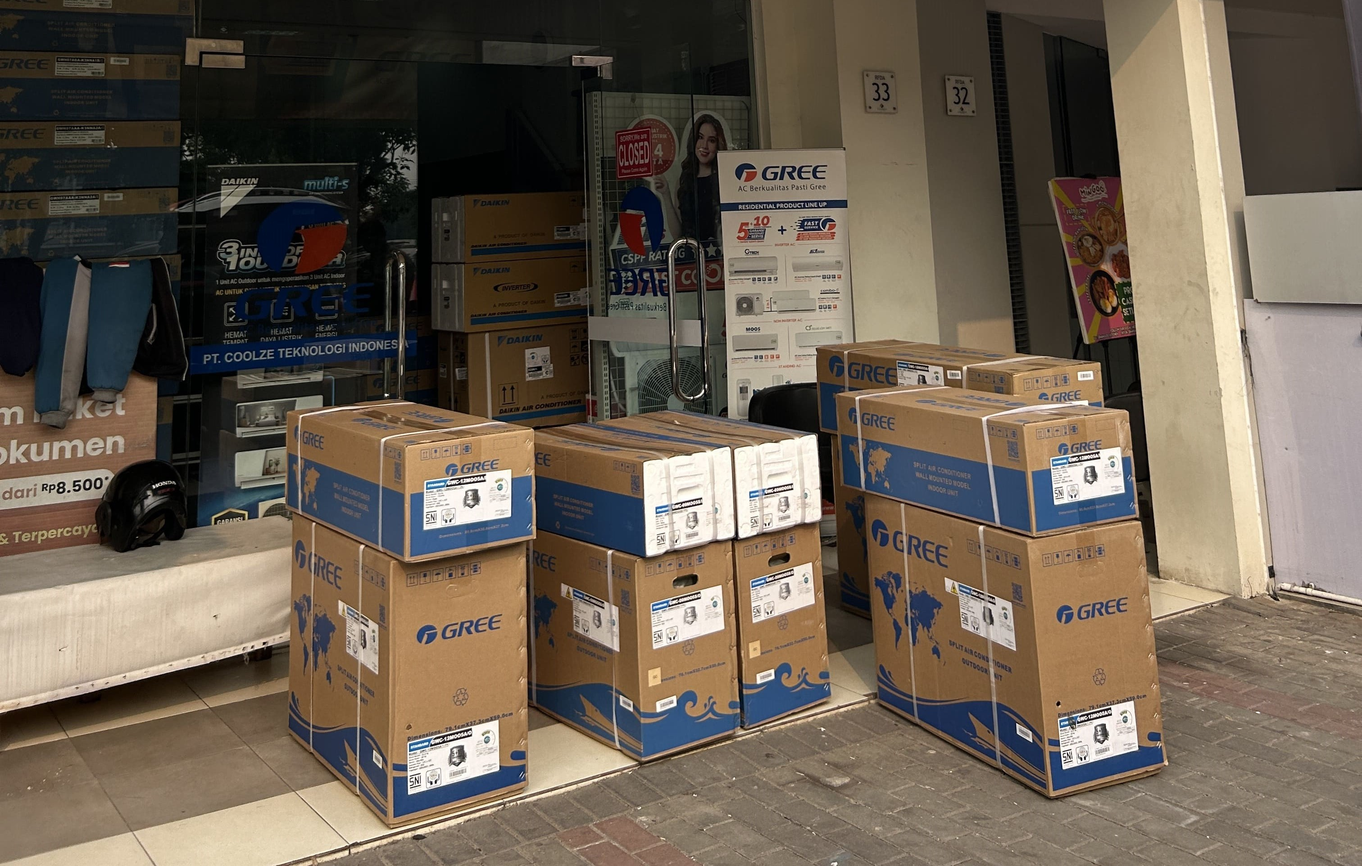
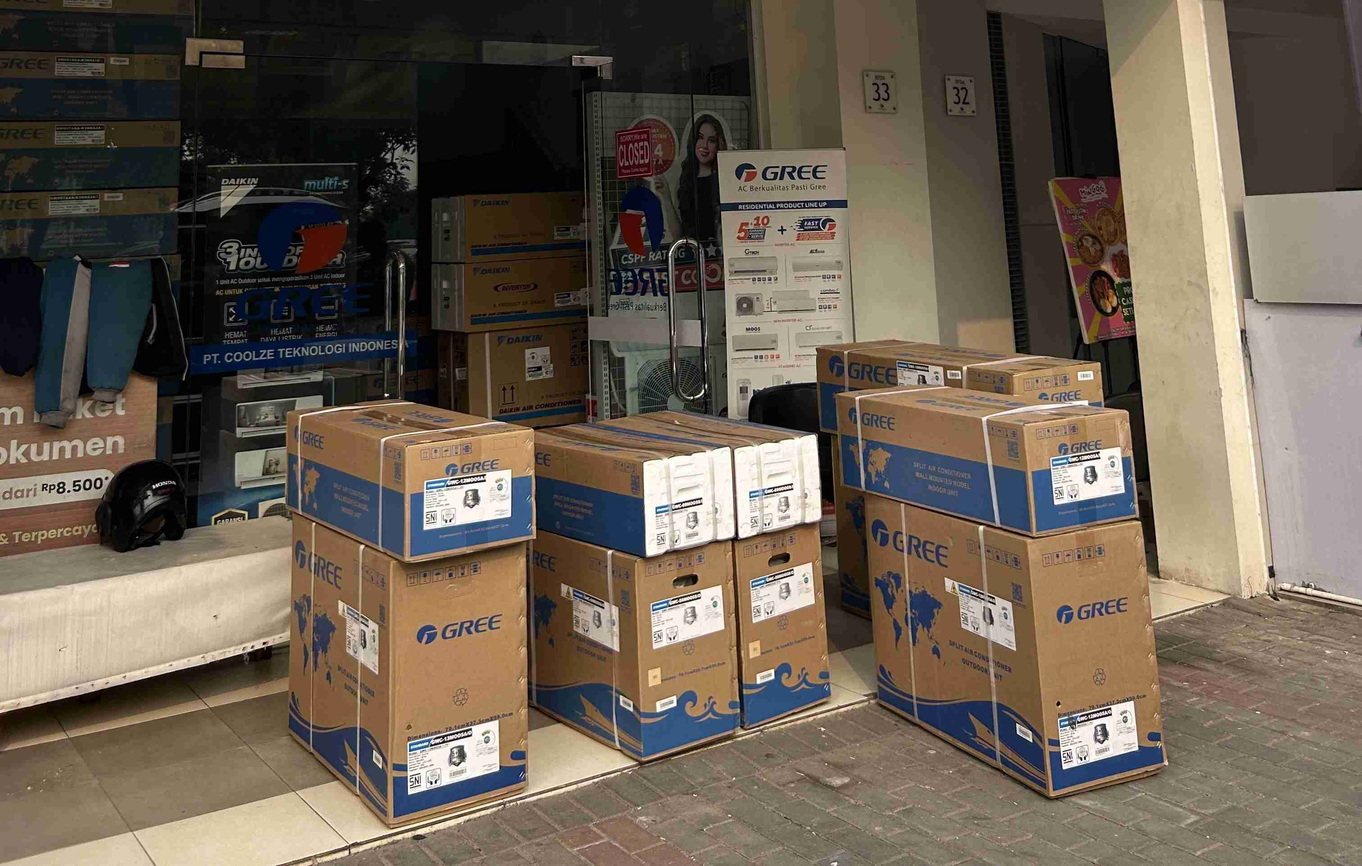
file service compress

Changed region(s): [[0.7771, 0.8108, 0.8082, 0.842], [0.7771, 0.499, 0.8082, 0.5301], [0.3108, 0.842, 0.3419, 0.8732]]

diff --git a/services.html b/services.html
@@ -148,7 +148,7 @@
       <!-- ======= Breadcrumbs ======= -->
       <div
         class="breadcrumbs d-flex align-items-center"
-        style="background-image: url('assets/img/services-header.png')"
+        style="background-image: url('assets/img/services-header.jpg')"
       >
         <div
           class="container position-relative d-flex flex-column align-items-center"
@@ -280,7 +280,7 @@
             >
               <div class="image-stack">
                 <img
-                  src="assets/img/DokumentasiService/doc-servis-1.PNG"
+                  src="assets/img/DokumentasiService/doc-servis-1.jpg"
                   alt="Maintenance AC Gedung"
                   class="stack-front"
                 />
@@ -309,7 +309,7 @@
               <!-- Dokumentasi Item -->
               <div class="swiper-slide">
                 <img
-                  src="assets/img/DokumentasiService/doc-servis-1.PNG"
+                  src="assets/img/DokumentasiService/doc-servis-1.jpg"
                   class="img-fluid"
                   alt="Dokumentasi Coolze AC"
                 />
@@ -333,7 +333,7 @@
 
               <div class="swiper-slide">
                 <img
-                  src="assets/img/DokumentasiService/doc-servis-4.PNG"
+                  src="assets/img/DokumentasiService/doc-servis-4.jpg"
                   class="img-fluid"
                   alt="Perbaikan AC Coolze"
                 />
@@ -357,7 +357,7 @@
 
               <div class="swiper-slide">
                 <img
-                  src="assets/img/DokumentasiService/doc-servis-7.png"
+                  src="assets/img/DokumentasiService/doc-servis-7.jpg"
                   class="img-fluid"
                   alt="Pembersihan AC Coolze"
                 />
@@ -365,7 +365,7 @@
 
               <div class="swiper-slide">
                 <img
-                  src="assets/img/DokumentasiService/doc-servis-8.png"
+                  src="assets/img/DokumentasiService/doc-servis-8.jpg"
                   class="img-fluid"
                   alt="Pemasangan Project AC Coolze"
                 />
@@ -373,7 +373,7 @@
 
               <div class="swiper-slide">
                 <img
-                  src="assets/img/DokumentasiService/doc-servis-9.png"
+                  src="assets/img/DokumentasiService/doc-servis-9.jpg"
                   class="img-fluid"
                   alt="Dokumentasi Coolze AC"
                 />
